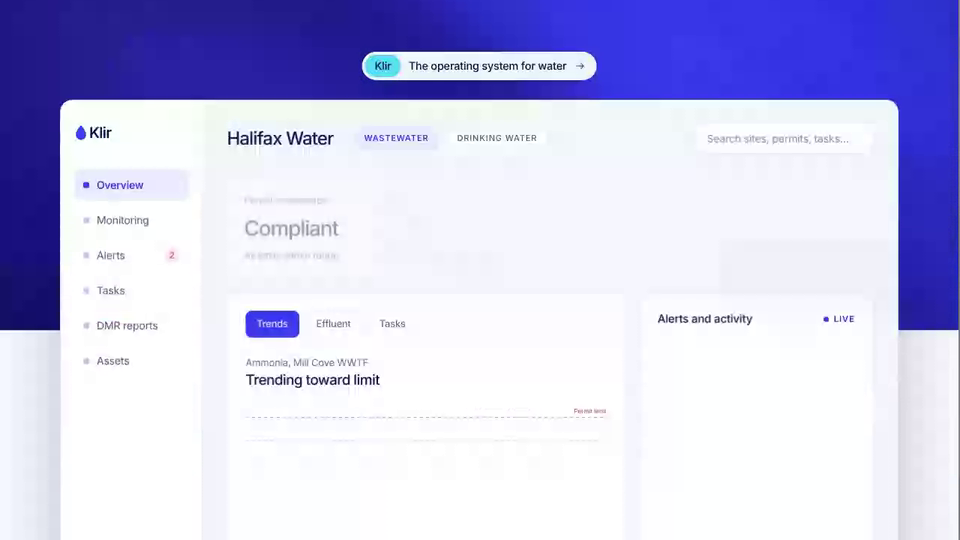
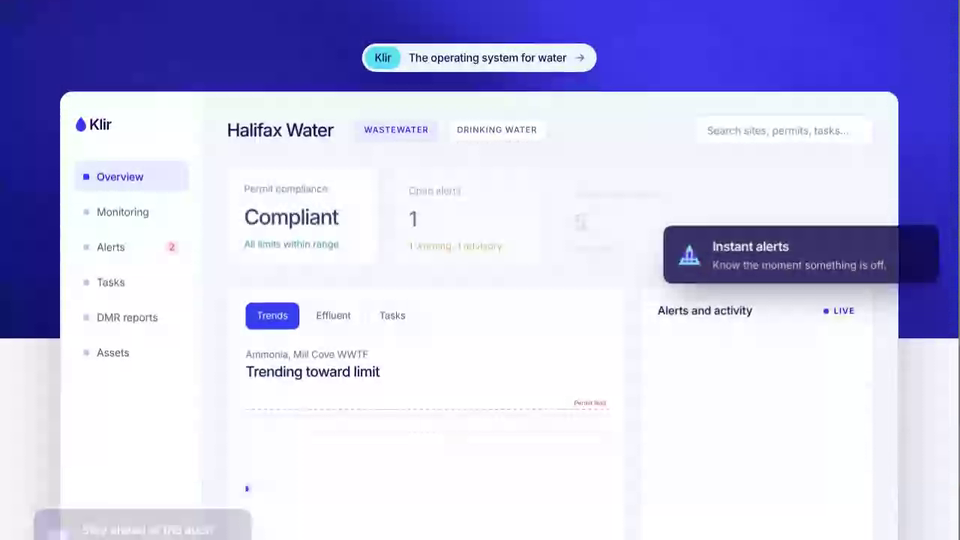
Klir Landing Page: longer Instant alerts callout
Claude-Session: https://claude.ai/code/session_01AHeBdxxJMjuAF9w67sWwW5

diff --git a/klir-landing-page/index.html b/klir-landing-page/index.html
@@ -222,7 +222,7 @@ footer p{font-size:clamp(18px,1.8vw,22px);letter-spacing:-.02em;max-width:30em;m
   <div class="cta"><a class="btn" href="#demo">Book A Demo →</a><a class="tl" href="#demo">Learn more →</a></div>
 </div>
 <main id="top">
-<div class="uiwrap" id="ui"><a class="pill" id="pill" href="https://www.klir.com/" target="_blank" rel="noopener"><span class="pb">Klir</span><span class="pt">The operating system for water</span><svg viewBox="0 0 24 24" width="16" height="16" fill="none" stroke="currentColor" stroke-width="2" stroke-linecap="round" stroke-linejoin="round"><path d="M5 12h14M13 6l6 6-6 6"/></svg></a><div class="tip" id="tip1" style="top:178px;right:-55px"><svg viewBox="0 0 32 32"><path d="M16 3L30 29H2z" fill="#7fe7f5"/><g fill="#3a0fc9"><rect x="8" y="12" width="4" height="9"/><rect x="14" y="12" width="4" height="9"/><rect x="20" y="12" width="4" height="9"/><rect x="8" y="23" width="4" height="3"/><rect x="14" y="23" width="4" height="3"/><rect x="20" y="23" width="4" height="3"/></g></svg><div><b>Instant alerts</b><span>Know the moment something is off.</span></div></div><div class="tip" id="tip2" style="top:550px;left:-40px"><svg viewBox="0 0 32 32"><rect x="3" y="3" width="21" height="26" fill="#c9c4ff"/><rect x="3" y="3" width="21" height="4" fill="#4a2fe0"/><g fill="#6f58f0"><rect x="7" y="11" width="13" height="2"/><rect x="7" y="15" width="13" height="2"/><rect x="7" y="19" width="13" height="2"/><rect x="7" y="23" width="13" height="2"/></g><rect x="25" y="6" width="4" height="21" fill="#4a2fe0"/><rect x="25" y="27" width="4" height="3" fill="#7fe7f5"/></svg><div><b>Stay ahead of the audit</b><span>Permits on track. Records ready.</span></div></div><div class="app" aria-label="Water management dashboard preview">
+<div class="uiwrap" id="ui"><a class="pill" id="pill" href="https://www.klir.com/" target="_blank" rel="noopener"><span class="pb">Klir</span><span class="pt">The operating system for water</span><svg viewBox="0 0 24 24" width="16" height="16" fill="none" stroke="currentColor" stroke-width="2" stroke-linecap="round" stroke-linejoin="round"><path d="M5 12h14M13 6l6 6-6 6"/></svg></a><div class="tip" id="tip1" style="top:178px;right:-55px;width:min(370px,34%)"><svg viewBox="0 0 32 32"><path d="M16 3L30 29H2z" fill="#7fe7f5"/><g fill="#3a0fc9"><rect x="8" y="12" width="4" height="9"/><rect x="14" y="12" width="4" height="9"/><rect x="20" y="12" width="4" height="9"/><rect x="8" y="23" width="4" height="3"/><rect x="14" y="23" width="4" height="3"/><rect x="20" y="23" width="4" height="3"/></g></svg><div><b>Instant alerts</b><span>Know the moment something is off.</span></div></div><div class="tip" id="tip2" style="top:550px;left:-40px"><svg viewBox="0 0 32 32"><rect x="3" y="3" width="21" height="26" fill="#c9c4ff"/><rect x="3" y="3" width="21" height="4" fill="#4a2fe0"/><g fill="#6f58f0"><rect x="7" y="11" width="13" height="2"/><rect x="7" y="15" width="13" height="2"/><rect x="7" y="19" width="13" height="2"/><rect x="7" y="23" width="13" height="2"/></g><rect x="25" y="6" width="4" height="21" fill="#4a2fe0"/><rect x="25" y="27" width="4" height="3" fill="#7fe7f5"/></svg><div><b>Stay ahead of the audit</b><span>Permits on track. Records ready.</span></div></div><div class="app" aria-label="Water management dashboard preview">
 <aside><div class="brand"><svg width="18" height="22" viewBox="-12 -16 24 32"><use href="#drop" fill="#3b3bef"/></svg>Klir</div><ul><li class=on><i></i>Overview</li><li><i></i>Monitoring</li><li><i></i>Alerts<em>2</em></li><li><i></i>Tasks</li><li><i></i>DMR reports</li><li><i></i>Assets</li></ul></aside>
 <div class="mn"><div class="top"><h3>Halifax Water</h3><span class="chip tab on">Wastewater</span><span class="chip tab">Drinking water</span><div class="srch">Search sites, permits, tasks…</div></div>
 <div class="ks"><div class="k"><small>Permit compliance</small><b>Compliant</b><span class="gr">All limits within range</span></div><div class="k"><small>Open alerts</small><b data-n="2">0</b><span class="am">1 warning, 1 advisory</span></div><div class="k"><small>Tasks due this week</small><b data-n="7">0</b><span class="">5 on track</span></div><div class="k"><small>DMR reporting</small><b>Ready</b><span class="">Next submission Dec 15</span></div></div>
